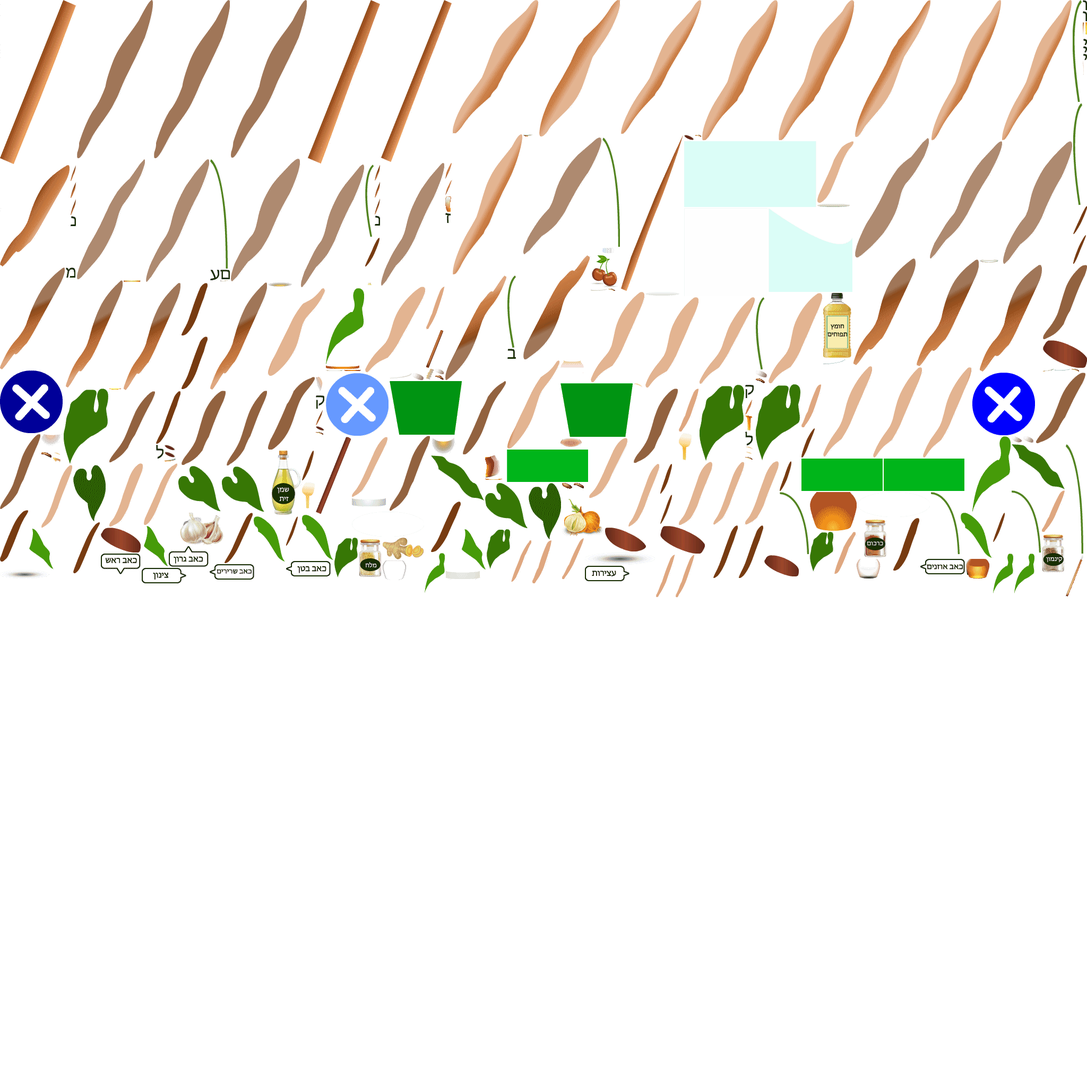
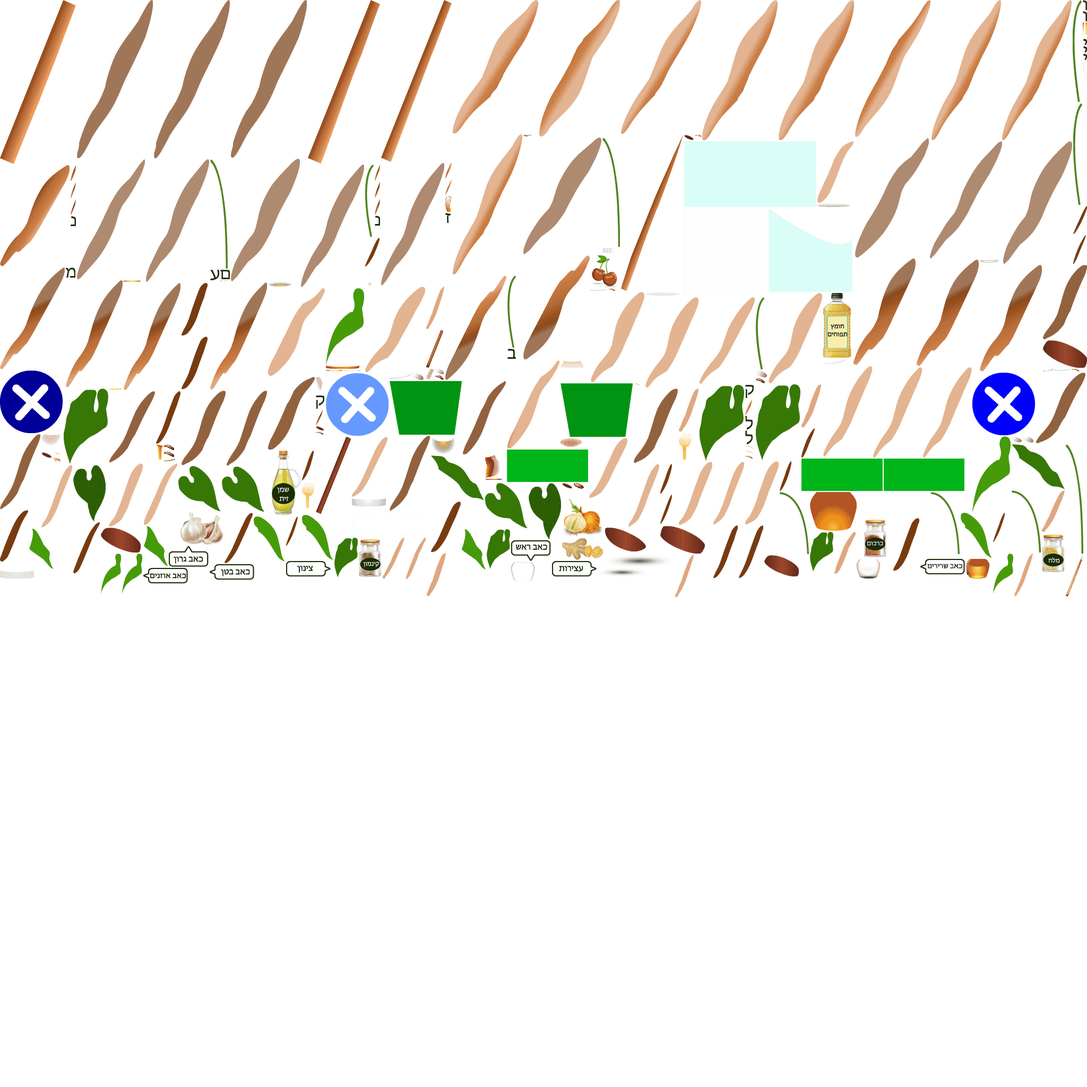
2806

diff --git a/interactive/dornimate.html b/interactive/dornimate.html
@@ -1,4 +1,4 @@
-<!DOCTYPE html>
+<!DOCTYPE html>
 <!--
 	NOTES:
 	1. All tokens are represented by '$' sign in the template.
@@ -9,176 +9,187 @@
 -->
 <html>
 <head>
-    <meta charset="UTF-8">
-    <meta name="authoring-tool" content="Adobe_Animate_CC">
-    <title>ייצוג אינטראקטיבי - אתר סבתא</title>
-    <link rel="icon" href="../image/favicon.png" type="image/gif" sizes="16x16">
-    <!-- write your code here -->
-    <script src="https://code.createjs.com/createjs-2015.11.26.min.js"></script>
-    <script src="dornimate.js"></script>
-    <script>
-        var canvas, stage, exportRoot, anim_container, dom_overlay_container, fnStartAnimation;
-        function init() {
-            canvas = document.getElementById("canvas");
-            anim_container = document.getElementById("animation_container");
-            dom_overlay_container = document.getElementById("dom_overlay_container");
-            var comp = AdobeAn.getComposition("C07955238C3E824F8BB3C8319C7A9928");
-            var lib = comp.getLibrary();
-            var loader = new createjs.LoadQueue(false);
-            loader.addEventListener("fileload", function (evt) { handleFileLoad(evt, comp) });
-            loader.addEventListener("complete", function (evt) { handleComplete(evt, comp) });
-            var lib = comp.getLibrary();
-            loader.loadManifest(lib.properties.manifest);
-        }
-        function handleFileLoad(evt, comp) {
-            var images = comp.getImages();
-            if (evt && (evt.item.type == "image")) { images[evt.item.id] = evt.result; }
-        }
-        function handleComplete(evt, comp) {
-            //This function is always called, irrespective of the content. You can use the variable "stage" after it is created in token create_stage.
-            var lib = comp.getLibrary();
-            var ss = comp.getSpriteSheet();
-            var queue = evt.target;
-            var ssMetadata = lib.ssMetadata;
-            for (i = 0; i < ssMetadata.length; i++) {
-                ss[ssMetadata[i].name] = new createjs.SpriteSheet({ "images": [queue.getResult(ssMetadata[i].name)], "frames": ssMetadata[i].frames })
-            }
-            exportRoot = new lib.finalproject();
-            stage = new lib.Stage(canvas);
-            stage.enableMouseOver();
-            //Registers the "tick" event listener.
-            fnStartAnimation = function () {
-                stage.addChild(exportRoot);
-                createjs.Ticker.setFPS(lib.properties.fps);
-                createjs.Ticker.addEventListener("tick", stage)
-                stage.addEventListener("tick", handleTick)
-                function getProjectionMatrix(container, totalDepth) {
-                    var focalLength = 528.25;
-                    var projectionCenter = { x: lib.properties.width / 2, y: lib.properties.height / 2 };
-                    var scale = (totalDepth + focalLength) / focalLength;
-                    var scaleMat = new createjs.Matrix2D;
-                    scaleMat.a = 1 / scale;
-                    scaleMat.d = 1 / scale;
-                    var projMat = new createjs.Matrix2D;
-                    projMat.tx = -projectionCenter.x;
-                    projMat.ty = -projectionCenter.y;
-                    projMat = projMat.prependMatrix(scaleMat);
-                    projMat.tx += projectionCenter.x;
-                    projMat.ty += projectionCenter.y;
-                    return projMat;
-                }
-                function handleTick(event) {
-                    var cameraInstance = exportRoot.___camera___instance;
-                    if (cameraInstance !== undefined && cameraInstance.pinToObject !== undefined) {
-                        cameraInstance.x = cameraInstance.pinToObject.x + cameraInstance.pinToObject.pinOffsetX;
-                        cameraInstance.y = cameraInstance.pinToObject.y + cameraInstance.pinToObject.pinOffsetY;
-                        if (cameraInstance.pinToObject.parent !== undefined && cameraInstance.pinToObject.parent.depth !== undefined)
-                            cameraInstance.depth = cameraInstance.pinToObject.parent.depth + cameraInstance.pinToObject.pinOffsetZ;
-                    }
-                    applyLayerZDepth(exportRoot);
-                }
-                function applyLayerZDepth(parent) {
-                    var cameraInstance = parent.___camera___instance;
-                    var focalLength = 528.25;
-                    var projectionCenter = { 'x': 0, 'y': 0 };
-                    if (parent === exportRoot) {
-                        var stageCenter = { 'x': lib.properties.width / 2, 'y': lib.properties.height / 2 };
-                        projectionCenter.x = stageCenter.x;
-                        projectionCenter.y = stageCenter.y;
-                    }
-                    for (child in parent.children) {
-                        var layerObj = parent.children[child];
-                        if (layerObj == cameraInstance)
-                            continue;
-                        applyLayerZDepth(layerObj, cameraInstance);
-                        if (layerObj.layerDepth === undefined)
-                            continue;
-                        if (layerObj.currentFrame != layerObj.parent.currentFrame) {
-                            layerObj.gotoAndPlay(layerObj.parent.currentFrame);
-                        }
-                        var matToApply = new createjs.Matrix2D;
-                        var cameraMat = new createjs.Matrix2D;
-                        var totalDepth = layerObj.layerDepth ? layerObj.layerDepth : 0;
-                        var cameraDepth = 0;
-                        if (cameraInstance && !layerObj.isAttachedToCamera) {
-                            var mat = cameraInstance.getMatrix();
-                            mat.tx -= projectionCenter.x;
-                            mat.ty -= projectionCenter.y;
-                            cameraMat = mat.invert();
-                            cameraMat.prependTransform(projectionCenter.x, projectionCenter.y, 1, 1, 0, 0, 0, 0, 0);
-                            cameraMat.appendTransform(-projectionCenter.x, -projectionCenter.y, 1, 1, 0, 0, 0, 0, 0);
-                            if (cameraInstance.depth)
-                                cameraDepth = cameraInstance.depth;
-                        }
-                        if (layerObj.depth) {
-                            totalDepth = layerObj.depth;
-                        }
-                        //Offset by camera depth
-                        totalDepth -= cameraDepth;
-                        if (totalDepth < -focalLength) {
-                            matToApply.a = 0;
-                            matToApply.d = 0;
-                        }
-                        else {
-                            if (layerObj.layerDepth) {
-                                var sizeLockedMat = getProjectionMatrix(parent, layerObj.layerDepth);
-                                if (sizeLockedMat) {
-                                    sizeLockedMat.invert();
-                                    matToApply.prependMatrix(sizeLockedMat);
-                                }
-                            }
-                            matToApply.prependMatrix(cameraMat);
-                            var projMat = getProjectionMatrix(parent, totalDepth);
-                            if (projMat) {
-                                matToApply.prependMatrix(projMat);
-                            }
-                        }
-                        layerObj.transformMatrix = matToApply;
-                    }
-                }
-            }
-            //Code to support hidpi screens and responsive scaling.
-            function makeResponsive(isResp, respDim, isScale, scaleType) {
-                var lastW, lastH, lastS = 1;
-                window.addEventListener('resize', resizeCanvas);
-                resizeCanvas();
-                function resizeCanvas() {
-                    var w = lib.properties.width, h = lib.properties.height;
-                    var iw = window.innerWidth, ih = window.innerHeight;
-                    var pRatio = window.devicePixelRatio || 1, xRatio = iw / w, yRatio = ih / h, sRatio = 1;
-                    if (isResp) {
-                        if ((respDim == 'width' && lastW == iw) || (respDim == 'height' && lastH == ih)) {
-                            sRatio = lastS;
-                        }
-                        else if (!isScale) {
-                            if (iw < w || ih < h)
-                                sRatio = Math.min(xRatio, yRatio);
-                        }
-                        else if (scaleType == 1) {
-                            sRatio = Math.min(xRatio, yRatio);
-                        }
-                        else if (scaleType == 2) {
-                            sRatio = Math.max(xRatio, yRatio);
-                        }
-                    }
-                    canvas.width = w * pRatio * sRatio;
-                    canvas.height = h * pRatio * sRatio;
-                    canvas.style.width = dom_overlay_container.style.width = anim_container.style.width = w * sRatio + 'px';
-                    canvas.style.height = anim_container.style.height = dom_overlay_container.style.height = h * sRatio + 'px';
-                    stage.scaleX = pRatio * sRatio;
-                    stage.scaleY = pRatio * sRatio;
-                    lastW = iw; lastH = ih; lastS = sRatio;
-                    stage.tickOnUpdate = false;
-                    stage.update();
-                    stage.tickOnUpdate = true;
-                }
-            }
-            makeResponsive(true, 'both', false, 1);
-            AdobeAn.compositionLoaded(lib.properties.id);
-            fnStartAnimation();
-        }
-    </script>
-    <!-- write your code here -->
+<meta charset="UTF-8">
+<meta name="authoring-tool" content="Adobe_Animate_CC">
+<title>dornimate</title>
+<!-- write your code here -->
+<script src="https://code.createjs.com/createjs-2015.11.26.min.js"></script>
+<script src="dornimate.js"></script>
+<script>
+var canvas, stage, exportRoot, anim_container, dom_overlay_container, fnStartAnimation;
+function init() {
+	canvas = document.getElementById("canvas");
+	anim_container = document.getElementById("animation_container");
+	dom_overlay_container = document.getElementById("dom_overlay_container");
+	var comp=AdobeAn.getComposition("C07955238C3E824F8BB3C8319C7A9928");
+	var lib=comp.getLibrary();
+	var loader = new createjs.LoadQueue(false);
+	loader.addEventListener("fileload", function(evt){handleFileLoad(evt,comp)});
+	loader.addEventListener("complete", function(evt){handleComplete(evt,comp)});
+	var lib=comp.getLibrary();
+	loader.loadManifest(lib.properties.manifest);
+}
+function handleFileLoad(evt, comp) {
+	var images=comp.getImages();	
+	if (evt && (evt.item.type == "image")) { images[evt.item.id] = evt.result; }	
+}
+function handleComplete(evt,comp) {
+	//This function is always called, irrespective of the content. You can use the variable "stage" after it is created in token create_stage.
+	var lib=comp.getLibrary();
+	var ss=comp.getSpriteSheet();
+	var queue = evt.target;
+	var ssMetadata = lib.ssMetadata;
+	for(i=0; i<ssMetadata.length; i++) {
+		ss[ssMetadata[i].name] = new createjs.SpriteSheet( {"images": [queue.getResult(ssMetadata[i].name)], "frames": ssMetadata[i].frames} )
+	}
+	exportRoot = new lib.finalproject();
+	stage = new lib.Stage(canvas);
+	stage.enableMouseOver();	
+	//Registers the "tick" event listener.
+	fnStartAnimation = function() {
+		stage.addChild(exportRoot);
+		createjs.Ticker.setFPS(lib.properties.fps);
+		createjs.Ticker.addEventListener("tick", stage)
+		stage.addEventListener("tick", handleTick)
+		function getProjectionMatrix(container, totalDepth) {
+			var focalLength = 528.25;
+			var projectionCenter = { x : lib.properties.width/2, y : lib.properties.height/2 };
+			var scale = (totalDepth + focalLength)/focalLength;
+			var scaleMat = new createjs.Matrix2D;
+			scaleMat.a = 1/scale;
+			scaleMat.d = 1/scale;
+			var projMat = new createjs.Matrix2D;
+			projMat.tx = -projectionCenter.x;
+			projMat.ty = -projectionCenter.y;
+			projMat = projMat.prependMatrix(scaleMat);
+			projMat.tx += projectionCenter.x;
+			projMat.ty += projectionCenter.y;
+			return projMat;
+		}
+		function handleTick(event) {
+			var cameraInstance = exportRoot.___camera___instance;
+			if(cameraInstance !== undefined && cameraInstance.pinToObject !== undefined)
+			{
+				cameraInstance.x = cameraInstance.pinToObject.x + cameraInstance.pinToObject.pinOffsetX;
+				cameraInstance.y = cameraInstance.pinToObject.y + cameraInstance.pinToObject.pinOffsetY;
+				if(cameraInstance.pinToObject.parent !== undefined && cameraInstance.pinToObject.parent.depth !== undefined)
+				cameraInstance.depth = cameraInstance.pinToObject.parent.depth + cameraInstance.pinToObject.pinOffsetZ;
+			}
+			applyLayerZDepth(exportRoot);
+		}
+		function applyLayerZDepth(parent)
+		{
+			var cameraInstance = parent.___camera___instance;
+			var focalLength = 528.25;
+			var projectionCenter = { 'x' : 0, 'y' : 0};
+			if(parent === exportRoot)
+			{
+				var stageCenter = { 'x' : lib.properties.width/2, 'y' : lib.properties.height/2 };
+				projectionCenter.x = stageCenter.x;
+				projectionCenter.y = stageCenter.y;
+			}
+			for(child in parent.children)
+			{
+				var layerObj = parent.children[child];
+				if(layerObj == cameraInstance)
+					continue;
+				applyLayerZDepth(layerObj, cameraInstance);
+				if(layerObj.layerDepth === undefined)
+					continue;
+				if(layerObj.currentFrame != layerObj.parent.currentFrame)
+				{
+					layerObj.gotoAndPlay(layerObj.parent.currentFrame);
+				}
+				var matToApply = new createjs.Matrix2D;
+				var cameraMat = new createjs.Matrix2D;
+				var totalDepth = layerObj.layerDepth ? layerObj.layerDepth : 0;
+				var cameraDepth = 0;
+				if(cameraInstance && !layerObj.isAttachedToCamera)
+				{
+					var mat = cameraInstance.getMatrix();
+					mat.tx -= projectionCenter.x;
+					mat.ty -= projectionCenter.y;
+					cameraMat = mat.invert();
+					cameraMat.prependTransform(projectionCenter.x, projectionCenter.y, 1, 1, 0, 0, 0, 0, 0);
+					cameraMat.appendTransform(-projectionCenter.x, -projectionCenter.y, 1, 1, 0, 0, 0, 0, 0);
+					if(cameraInstance.depth)
+						cameraDepth = cameraInstance.depth;
+				}
+				if(layerObj.depth)
+				{
+					totalDepth = layerObj.depth;
+				}
+				//Offset by camera depth
+				totalDepth -= cameraDepth;
+				if(totalDepth < -focalLength)
+				{
+					matToApply.a = 0;
+					matToApply.d = 0;
+				}
+				else
+				{
+					if(layerObj.layerDepth)
+					{
+						var sizeLockedMat = getProjectionMatrix(parent, layerObj.layerDepth);
+						if(sizeLockedMat)
+						{
+							sizeLockedMat.invert();
+							matToApply.prependMatrix(sizeLockedMat);
+						}
+					}
+					matToApply.prependMatrix(cameraMat);
+					var projMat = getProjectionMatrix(parent, totalDepth);
+					if(projMat)
+					{
+						matToApply.prependMatrix(projMat);
+					}
+				}
+				layerObj.transformMatrix = matToApply;
+			}
+		}
+	}	    
+	//Code to support hidpi screens and responsive scaling.
+	function makeResponsive(isResp, respDim, isScale, scaleType) {		
+		var lastW, lastH, lastS=1;		
+		window.addEventListener('resize', resizeCanvas);		
+		resizeCanvas();		
+		function resizeCanvas() {			
+			var w = lib.properties.width, h = lib.properties.height;			
+			var iw = window.innerWidth, ih=window.innerHeight;			
+			var pRatio = window.devicePixelRatio || 1, xRatio=iw/w, yRatio=ih/h, sRatio=1;			
+			if(isResp) {                
+				if((respDim=='width'&&lastW==iw) || (respDim=='height'&&lastH==ih)) {                    
+					sRatio = lastS;                
+				}				
+				else if(!isScale) {					
+					if(iw<w || ih<h)						
+						sRatio = Math.min(xRatio, yRatio);				
+				}				
+				else if(scaleType==1) {					
+					sRatio = Math.min(xRatio, yRatio);				
+				}				
+				else if(scaleType==2) {					
+					sRatio = Math.max(xRatio, yRatio);				
+				}			
+			}			
+			canvas.width = w*pRatio*sRatio;			
+			canvas.height = h*pRatio*sRatio;
+			canvas.style.width = dom_overlay_container.style.width = anim_container.style.width =  w*sRatio+'px';				
+			canvas.style.height = anim_container.style.height = dom_overlay_container.style.height = h*sRatio+'px';
+			stage.scaleX = pRatio*sRatio;			
+			stage.scaleY = pRatio*sRatio;			
+			lastW = iw; lastH = ih; lastS = sRatio;            
+			stage.tickOnUpdate = false;            
+			stage.update();            
+			stage.tickOnUpdate = true;		
+		}
+	}
+	makeResponsive(true,'both',false,1);	
+	AdobeAn.compositionLoaded(lib.properties.id);
+	fnStartAnimation();
+}
+</script>
+<!-- write your code here -->
 </head>
 <body onload="init();" style="margin:0px;">
 	<div id="animation_container" style="background-color:rgba(255, 255, 255, 1.00); width:1024px; height:768px">

diff --git a/interactive/dornimate.js b/interactive/dornimate.js
@@ -3,9 +3,9 @@
 var p; // shortcut to reference prototypes
 var lib={};var ss={};var img={};
 lib.ssMetadata = [
-		{name:"dornimate_atlas_", frames: [[0,0,1024,768],[1573,1549,380,257],[1573,1290,380,257],[1628,860,249,428],[1336,1221,235,426],[1101,1221,233,437],[1101,0,525,1219],[560,770,539,1226],[0,770,558,1234],[1628,0,333,858]]},
-		{name:"dornimate_atlas_2", frames: [[0,450,216,447],[218,0,233,401],[676,0,218,371],[896,0,202,347],[1293,0,188,314],[1584,362,176,285],[422,814,202,418],[1014,1227,190,387],[453,0,221,398],[914,1651,206,369],[1100,0,191,346],[1826,0,178,314],[1719,1305,165,285],[1227,348,176,362],[422,403,219,409],[707,1651,205,379],[1206,1123,190,354],[1483,0,164,329],[1405,362,177,321],[1882,976,166,291],[1886,1269,154,298],[0,1348,220,435],[643,400,207,407],[852,373,193,377],[1314,1479,178,353],[1558,685,167,320],[1660,1592,155,291],[218,850,202,444],[630,1234,190,415],[1021,752,178,385],[1494,1439,164,360],[1762,647,153,327],[0,899,216,447],[426,1234,202,418],[1122,1616,190,387],[1380,712,176,362],[1826,316,164,329],[1886,1569,154,298],[222,1296,202,444],[822,1234,190,415],[1047,349,178,385],[1660,0,164,360],[1727,976,153,327],[0,0,216,448],[626,814,202,418],[218,403,202,445],[830,809,189,416],[1201,736,177,385],[1398,1076,164,361],[1564,1007,153,328],[0,1785,705,117]]},
-		{name:"dornimate_atlas_3", frames: [[614,697,32,2],[1965,695,20,5],[415,528,15,2],[1404,861,14,5],[2019,695,15,5],[595,814,15,5],[1146,544,13,4],[1310,254,11,4],[914,902,32,2],[648,697,32,2],[839,370,11,29],[688,504,19,34],[1056,825,40,17],[1820,1053,44,37],[1614,1053,44,37],[2045,42,3,23],[310,864,21,6],[1424,713,18,9],[986,253,17,4],[1081,910,20,11],[1846,489,35,6],[78,852,20,11],[914,858,28,42],[1059,910,20,11],[206,732,22,2],[803,622,32,71],[2008,1045,35,79],[820,707,17,9],[1404,783,13,28],[595,710,13,33],[1279,815,24,52],[100,862,14,9],[2040,115,2,27],[820,695,17,10],[78,818,40,32],[2040,42,3,29],[1194,722,17,8],[812,821,48,35],[1928,822,19,12],[1424,698,21,13],[777,703,21,13],[1906,822,20,12],[100,852,16,8],[1056,679,44,40],[1404,841,17,8],[803,695,15,20],[569,907,24,51],[1404,851,17,8],[233,528,32,3],[1135,467,33,10],[505,532,46,8],[721,1056,44,37],[595,803,16,9],[1289,254,19,10],[310,851,20,11],[310,838,20,11],[1289,392,157,166],[1871,966,22,55],[133,375,10,30],[1965,641,83,52],[853,0,161,251],[986,259,147,220],[0,311,131,191],[688,540,113,161],[1952,702,93,133],[1110,825,72,113],[812,945,56,95],[1963,924,43,78],[688,448,27,54],[1404,752,13,29],[1170,0,151,252],[1752,266,136,221],[0,504,122,192],[1318,560,104,163],[206,737,86,134],[663,823,67,113],[423,966,53,95],[1059,1014,41,77],[2022,388,26,53],[595,772,13,29],[1244,991,84,52],[1016,0,152,257],[1611,260,139,225],[986,481,125,196],[505,543,107,165],[505,710,88,137],[1540,266,68,116],[0,961,53,97],[1572,1002,40,79],[1510,807,25,55],[839,307,12,30],[1611,0,142,258],[145,300,128,226],[1323,0,142,264],[839,519,115,197],[956,679,98,166],[872,718,81,138],[271,873,63,116],[138,984,50,96],[963,1018,38,78],[2022,443,24,54],[839,339,12,29],[1140,994,77,45],[0,1074,92,16],[1890,266,130,231],[1102,1041,132,23],[1551,676,41,10],[1113,544,31,4],[734,703,41,10],[1540,384,61,6],[1987,695,30,3],[1608,487,117,201],[663,938,64,16],[734,718,136,101],[1665,864,152,61],[1616,927,136,47],[415,508,18,18],[2040,0,8,19],[1404,725,16,25],[2041,87,7,12],[1404,813,14,26],[2041,73,7,12],[1113,550,101,170],[839,401,10,19],[956,657,16,19],[138,876,61,106],[1754,927,54,117],[688,310,16,136],[2021,0,17,192],[1135,259,33,206],[1906,837,100,85],[271,991,45,76],[336,878,80,85],[1448,392,158,158],[1965,499,83,140],[1810,966,59,85],[120,732,84,142],[1832,822,72,142],[917,997,44,75],[800,1042,38,75],[955,847,153,61],[294,838,14,26],[2041,101,7,12],[1404,869,63,119],[2040,21,8,19],[124,504,18,19],[595,745,16,25],[1469,927,55,117],[956,519,16,136],[396,300,33,206],[342,533,49,99],[870,997,45,76],[418,879,80,85],[478,973,59,85],[1424,724,84,143],[630,1013,44,75],[1911,1043,38,75],[1056,722,136,101],[1510,864,153,61],[663,964,136,47],[1510,724,37,81],[706,406,10,19],[396,508,17,20],[133,407,10,19],[996,910,61,106],[1906,924,55,117],[1424,560,16,136],[2022,194,17,192],[2008,837,33,206],[812,858,100,85],[569,849,22,56],[55,996,45,76],[914,910,80,85],[569,970,59,85],[1318,725,84,143],[614,543,72,143],[1526,1002,44,75],[1871,1043,38,75],[840,1075,64,16],[1216,550,64,7],[1289,266,249,124],[706,310,10,30],[0,698,118,118],[1832,702,118,118],[614,703,118,118],[595,823,66,145],[435,0,143,297],[1755,0,131,264],[275,300,119,231],[124,528,107,202],[1739,692,91,170],[427,736,76,141],[1344,870,58,118],[294,737,46,99],[1236,1045,35,80],[614,688,63,7],[1244,932,22,55],[133,311,10,30],[1440,1046,65,40],[1467,0,142,264],[0,0,143,309],[435,299,130,231],[1727,489,117,201],[1216,560,100,170],[1194,732,83,140],[1279,870,63,119],[342,634,49,99],[1279,732,37,81],[1469,869,22,56],[706,342,10,30],[580,0,136,308],[145,0,143,298],[1888,0,131,264],[718,307,119,231],[396,532,107,202],[1551,690,92,170],[0,818,76,141],[718,0,133,305],[1184,874,58,118],[1344,990,46,99],[1273,1045,35,80],[539,973,22,55],[706,374,10,30],[190,994,75,47],[1846,499,117,201],[1448,552,101,170],[1170,254,117,294],[342,736,83,140],[206,873,63,119],[1683,976,49,99],[1003,1018,36,81],[1244,874,22,56],[133,343,10,30],[1526,927,88,73],[290,0,143,298],[853,253,131,264],[567,310,119,231],[233,533,107,202],[1645,692,92,170],[734,821,76,141],[78,876,58,118],[1392,990,46,99],[803,540,34,80],[395,1063,84,29],[1102,1066,84,29],[539,1057,84,29],[318,1029,75,39],[1734,1053,84,29],[267,1070,84,29],[190,1043,75,39],[1616,976,65,75],[1963,1004,43,75],[676,1013,43,75],[505,849,62,122],[1551,552,53,122],[1113,481,51,61],[1059,940,79,72],[336,966,85,61],[721,1013,77,41]]}
+		{name:"dornimate_atlas_", frames: [[0,0,1024,768],[1573,1290,380,257],[1573,1549,380,257],[1628,860,249,428],[1336,1221,235,426],[1101,1221,233,437],[1101,0,525,1219],[560,770,539,1226],[0,770,558,1234],[1628,0,333,858]]},
+		{name:"dornimate_atlas_2", frames: [[0,899,216,447],[218,0,233,401],[676,0,218,371],[896,0,202,347],[1293,0,188,314],[1584,362,176,285],[426,1234,202,418],[1122,1616,190,387],[453,0,221,398],[914,1651,206,369],[1100,0,191,346],[1826,0,178,314],[1719,1305,165,285],[1380,712,176,362],[422,403,219,409],[707,1651,205,379],[1206,1123,190,354],[1483,0,164,329],[1405,362,177,321],[1882,976,166,291],[1886,1269,154,298],[0,1348,220,435],[643,400,207,407],[852,373,193,377],[1314,1479,178,353],[1558,685,167,320],[1660,1592,155,291],[218,850,202,444],[630,1234,190,415],[1021,752,178,385],[1494,1439,164,360],[1762,647,153,327],[0,450,216,447],[626,814,202,418],[1014,1227,190,387],[1227,348,176,362],[1826,316,164,329],[1886,1569,154,298],[222,1296,202,444],[822,1234,190,415],[1047,349,178,385],[1660,0,164,360],[1727,976,153,327],[0,0,216,448],[422,814,202,418],[218,403,202,445],[830,809,189,416],[1201,736,177,385],[1398,1076,164,361],[1564,1007,153,328],[0,1785,705,117]]},
+		{name:"dornimate_atlas_3", frames: [[648,697,32,2],[1965,695,20,5],[415,528,15,2],[1404,859,14,5],[2019,695,15,5],[595,814,15,5],[1146,544,13,4],[1310,254,11,4],[614,697,32,2],[914,902,32,2],[839,370,11,29],[688,504,19,34],[1056,825,40,17],[1820,1053,44,37],[1614,1053,44,37],[2045,42,3,23],[309,864,21,6],[1424,713,18,9],[986,253,17,4],[309,838,20,11],[1846,489,35,6],[309,851,20,11],[914,858,28,42],[1081,910,20,11],[206,732,22,2],[803,622,32,71],[2008,1045,35,79],[820,707,17,9],[294,838,13,28],[595,710,13,33],[1279,815,24,52],[100,862,14,9],[2040,115,2,27],[820,695,17,10],[78,818,40,32],[2040,42,3,29],[1404,839,17,8],[812,821,48,35],[1928,822,19,12],[777,703,21,13],[1424,698,21,13],[1906,822,20,12],[100,852,16,8],[1056,679,44,40],[1404,849,17,8],[803,695,15,20],[569,907,24,51],[1194,722,17,8],[233,528,32,3],[1135,467,33,10],[505,532,46,8],[963,1059,44,37],[595,803,16,9],[1289,254,19,10],[78,852,20,11],[1059,910,20,11],[1289,392,157,166],[1244,932,22,55],[706,310,10,30],[1965,641,83,52],[853,0,161,251],[986,259,147,220],[0,311,131,191],[688,540,113,161],[1952,702,93,133],[1110,825,72,113],[812,945,56,95],[1963,924,43,78],[688,448,27,54],[1404,752,13,29],[1170,0,151,252],[1752,266,136,221],[0,504,122,192],[1318,560,104,163],[206,737,86,134],[663,823,67,113],[423,966,53,95],[721,1013,41,77],[2022,388,26,53],[595,772,13,29],[1244,991,84,52],[1016,0,152,257],[1611,260,139,225],[986,481,125,196],[505,543,107,165],[505,710,88,137],[1540,266,68,116],[0,961,53,97],[1572,1002,40,79],[1510,807,25,55],[839,307,12,30],[1611,0,142,258],[145,300,128,226],[1323,0,142,264],[839,519,115,197],[956,679,98,166],[872,718,81,138],[271,873,63,116],[138,984,50,96],[764,1013,38,78],[2022,443,24,54],[839,339,12,29],[1140,994,77,45],[1126,1070,92,16],[1890,266,130,231],[1138,1045,132,23],[734,703,41,10],[1113,544,31,4],[1551,676,41,10],[1540,384,61,6],[1987,695,30,3],[1727,489,117,201],[663,938,64,16],[734,718,136,101],[1665,864,152,61],[1616,927,136,47],[415,508,18,18],[2040,0,8,19],[1404,725,16,25],[2041,73,7,12],[1404,783,14,26],[2041,87,7,12],[1448,552,101,170],[839,401,10,19],[956,657,16,19],[996,910,61,106],[1754,927,54,117],[956,519,16,136],[2021,0,17,192],[1135,259,33,206],[1906,837,100,85],[271,991,45,76],[336,878,80,85],[1448,392,158,158],[1194,732,83,140],[1810,966,59,85],[120,732,84,142],[1832,822,72,142],[917,997,44,75],[190,1043,38,75],[955,847,153,61],[1404,811,14,26],[2041,101,7,12],[1279,870,63,119],[2040,21,8,19],[124,504,18,19],[595,745,16,25],[1906,924,55,117],[688,310,16,136],[396,300,33,206],[342,634,49,99],[870,997,45,76],[914,910,80,85],[569,970,59,85],[1424,724,84,143],[630,1013,44,75],[230,1043,38,75],[1056,722,136,101],[1510,864,153,61],[663,964,136,47],[1510,724,37,81],[706,406,10,19],[396,508,17,20],[133,407,10,19],[138,876,61,106],[1469,927,55,117],[1424,560,16,136],[2022,194,17,192],[2008,837,33,206],[812,858,100,85],[1469,869,22,56],[55,996,45,76],[418,879,80,85],[478,973,59,85],[1318,725,84,143],[614,543,72,143],[1526,1002,44,75],[1871,1043,38,75],[0,1074,64,16],[1216,550,64,7],[1289,266,249,124],[706,342,10,30],[0,698,118,118],[1832,702,118,118],[614,703,118,118],[595,823,66,145],[435,0,143,297],[1888,0,131,264],[718,307,119,231],[396,532,107,202],[1739,692,91,170],[0,818,76,141],[1184,874,58,118],[1344,990,46,99],[1911,1043,35,80],[614,688,63,7],[1871,966,22,55],[133,343,10,30],[1440,1046,65,40],[1467,0,142,264],[0,0,143,309],[435,299,130,231],[1846,499,117,201],[1216,560,100,170],[342,736,83,140],[206,873,63,119],[1683,976,49,99],[1279,732,37,81],[1244,874,22,56],[706,374,10,30],[580,0,136,308],[290,0,143,298],[853,253,131,264],[567,310,119,231],[233,533,107,202],[1645,692,92,170],[734,821,76,141],[718,0,133,305],[78,876,58,118],[1392,990,46,99],[1272,1045,35,80],[539,973,22,55],[133,375,10,30],[190,994,75,47],[1608,487,117,201],[1113,550,101,170],[1170,254,117,294],[1965,499,83,140],[1404,869,63,119],[342,533,49,99],[804,1042,36,81],[569,849,22,56],[133,311,10,30],[1526,927,88,73],[145,0,143,298],[1755,0,131,264],[275,300,119,231],[124,528,107,202],[1551,690,92,170],[427,736,76,141],[1344,870,58,118],[294,737,46,99],[803,540,34,80],[1734,1053,84,29],[1040,1057,84,29],[395,1063,84,29],[318,1029,75,39],[270,1070,84,29],[539,1057,84,29],[963,1018,75,39],[1616,976,65,75],[676,1013,43,75],[1963,1004,43,75],[505,849,62,122],[1551,552,53,122],[1113,481,51,61],[1059,940,79,72],[336,966,85,61],[1059,1014,77,41]]}
 ];
 
 
